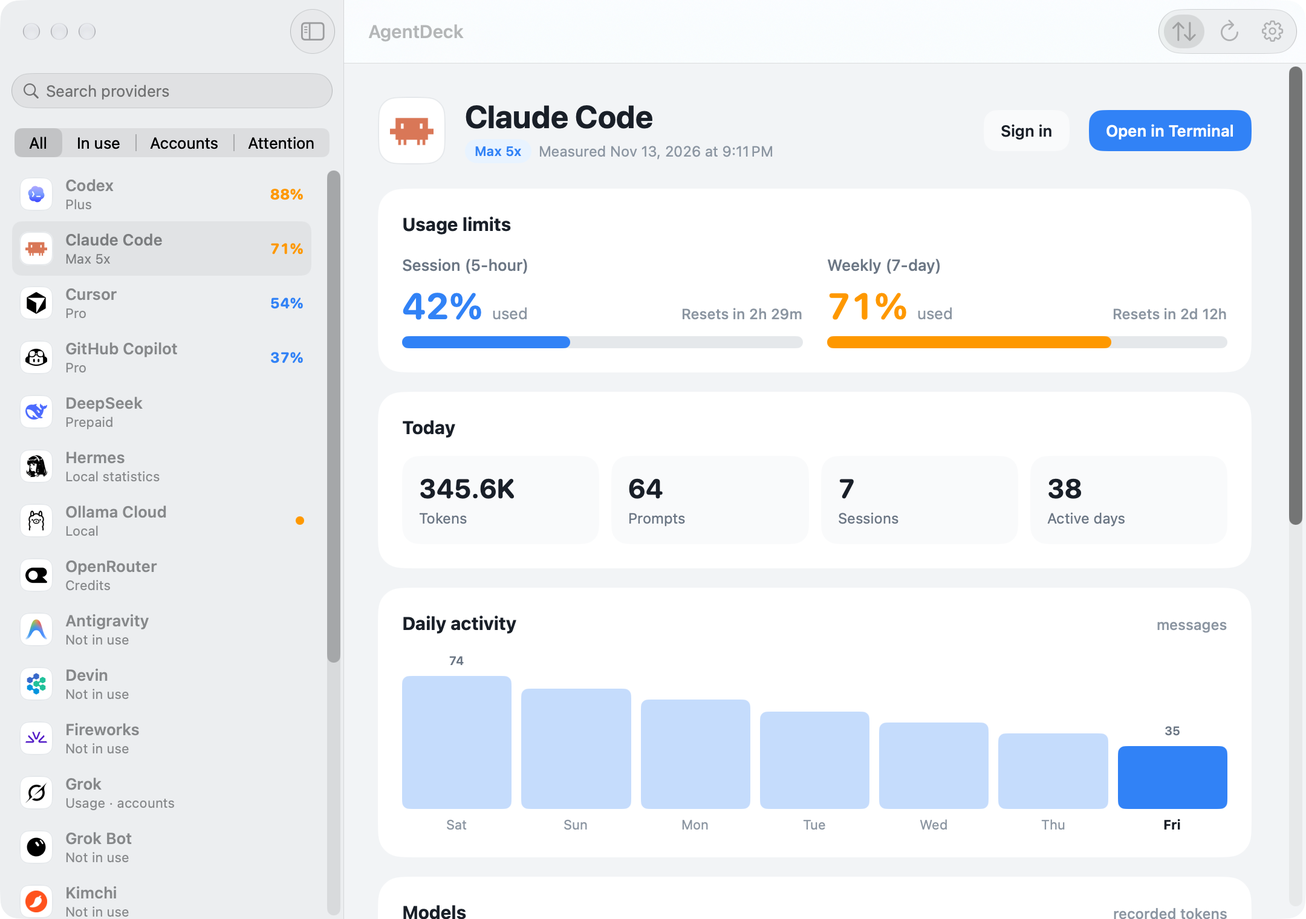
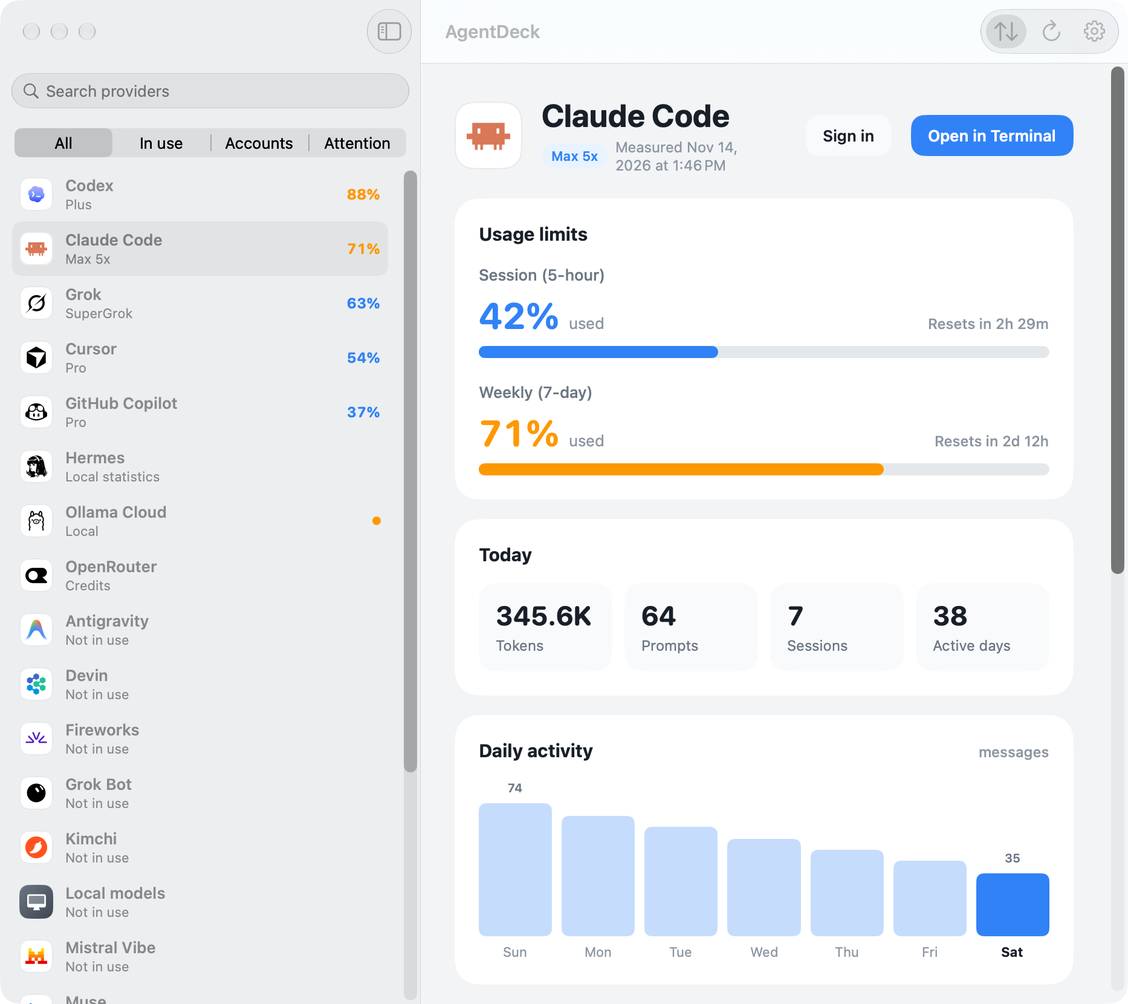
fix: refresh provider examples and unify display ordering

diff --git a/site/index.html b/site/index.html
@@ -94,10 +94,10 @@
   <section>
     <h2 data-i18n="h-shots">A closer look</h2>
     <div class="shots">
-      <figure><img src="images/panel-light.png" alt="Menu bar panel"><figcaption data-i18n="c1">Menu bar panel — highest usage first</figcaption></figure>
-      <figure><img src="images/accounts.png" alt="Accounts"><figcaption data-i18n="c2">Accounts and automatic switching</figcaption></figure>
-      <figure><img src="images/dashboard-dark.png" alt="Dashboard in dark mode"><figcaption data-i18n="c3">Dashboard, dark mode</figcaption></figure>
-      <figure><img src="images/balance.png" alt="Balance"><figcaption data-i18n="c4">Prepaid balances, estimates clearly marked</figcaption></figure>
+      <figure><img src="images/dashboard-light.png" alt="Claude Code"><figcaption data-i18n="c1">Claude Code usage</figcaption></figure>
+      <figure><img src="images/accounts.png" alt="Codex accounts"><figcaption data-i18n="c2">Codex accounts and automatic switching</figcaption></figure>
+      <figure><img src="images/grok.png" alt="Grok"><figcaption data-i18n="c3">Grok usage</figcaption></figure>
+      <figure><img src="images/balance.png" alt="OpenRouter balance"><figcaption data-i18n="c4">OpenRouter prepaid balance</figcaption></figure>
     </div>
   </section>
 
@@ -114,8 +114,8 @@
   <footer data-i18n="footer">MIT License · Not affiliated with any provider; product names and logos belong to their owners · <a href="https://github.com/jdk1021/agentdeck">Source on GitHub</a></footer>
 </div>
 <script>
-const providers = [["claude","Claude Code"],["codex","Codex"],["grok","Grok"],["cursor","Cursor"],["copilot","GitHub Copilot"],["agy","Antigravity"],["kimi","Kimi"],["deepseek","DeepSeek"],["openrouter","OpenRouter"],["fireworks","Fireworks"],["zai","Z.ai"],["minimax","MiniMax"],["qwen","Qwen Code"],["vibe","Mistral Vibe"],["ollama","Ollama Cloud"],["opencode","OpenCode"],["hermes","Hermes"],["devin","Devin"],["synthetic","Synthetic"],["kimchi","Kimchi"],["muse","Muse"],["grokbot","Grok Bot"]];
-document.getElementById("providers").innerHTML = providers.map(([id, name]) => `<span><img src="icons/${id}.png" alt="">${name}</span>`).join("") + `<span>+ Local models</span>`;
+const providers = [["claude","Claude Code"],["codex","Codex"],["grok","Grok"],["cursor","Cursor"],["copilot","GitHub Copilot"],["agy","Antigravity"],["openrouter","OpenRouter"],["fireworks","Fireworks"],["vibe","Mistral Vibe"],["ollama","Ollama Cloud"],["opencode","OpenCode"],["hermes","Hermes"],["devin","Devin"],["synthetic","Synthetic"],["kimchi","Kimchi"],["muse","Muse"],["grokbot","Grok Bot"],["local","Local models"],["deepseek","DeepSeek"],["kimi","Kimi"],["minimax","MiniMax"],["qwen","Qwen Code"],["zai","Z.ai"]];
+document.getElementById("providers").innerHTML = providers.map(([id, name]) => `<span>${id === "local" ? "" : `<img src="icons/${id}.png" alt="">`}${name}</span>`).join("");
 const ko = {
   credit: '<a href="https://github.com/omacom/omarchy">Omarchy</a>(MIT, David Heinemeier Hansson과 Omarchy 기여자들)의 에이전트 사용량 수집기를 바탕으로 만들었습니다. 깊이 감사드립니다.',
   title: "모든 AI 코딩 에이전트의 한도를<br>메뉴 막대 한곳에서.",
@@ -129,7 +129,7 @@ const ko = {
   f5t: "자체 완결형", f5: "수집기용 Python과 ripgrep이 앱 안에 들어 있어 따로 설치할 것이 없습니다.",
   f6t: "기본은 로컬 보관", f6: "사용량은 Mac 안에만 머뭅니다. 선택 기능인 기기 간 합계도 숫자만 내보내며 로그인이나 대화는 내보내지 않습니다.",
   "h-providers": "지원 제공자", "h-shots": "자세히 보기",
-  c1: "메뉴 막대 패널 — 사용량 높은 순", c2: "계정과 자동 전환", c3: "대시보드(다크 모드)", c4: "선불 잔액, 추정치는 명확히 표시",
+  c1: "Claude Code 사용량", c2: "Codex 계정과 자동 전환", c3: "Grok 사용량", c4: "OpenRouter 선불 잔액",
   "h-install": "설치",
   s1: '<b>또는</b> <a href="https://github.com/jdk1021/agentdeck/releases/latest">Releases</a>에서 DMG를 내려받아 AgentDeck을 응용 프로그램 폴더로 옮기세요.',
   s2: "<b>처음 실행:</b> ad-hoc 서명이며 공증되지 않은 앱입니다. 시스템 설정 → 개인정보 보호 및 보안에서 <b>그래도 열기</b>를 선택하세요.",

diff --git a/Sources/AgentDeckApp/DemoData.swift b/Sources/AgentDeckApp/DemoData.swift
@@ -53,6 +53,7 @@ enum DemoData {
         }
         let claudeLimits = [limit("Session (5-hour)", 0.42, 2.5), limit("Weekly (7-day)", 0.71, 61)]
         let codexLimits = [limit("5h window", 0.88, 1.2), limit("Weekly (7-day)", 0.64, 90)]
+        let grokLimits = [limit("Monthly credits", 0.63, 360)]
         let records: [JSONValue] = [
             record("claude", plan: "Max 5x", limits: claudeLimits, prompts: 64, models: ["model-large": 2_400_000, "model-fast": 610_000],
                    extra: ["accounts": .array([account("primary", "Max 5x", claudeLimits, active: true),
@@ -60,9 +61,11 @@ enum DemoData {
             record("codex", plan: "Plus", limits: codexLimits, prompts: 41, models: ["model-codex": 1_900_000],
                    extra: ["accounts": .array([account("primary", "Plus", codexLimits, active: true),
                                                account("demo-spare", "Plus", [limit("5h window", 0.05, 3), limit("Weekly (7-day)", 0.22, 70)], active: false)])]),
+            record("grok", plan: "SuperGrok", limits: grokLimits, prompts: 28, models: ["model-grok": 840_000],
+                   extra: ["accounts": .array([account("primary", "SuperGrok", grokLimits, active: true),
+                                               account("demo-team", "Team", [limit("Monthly credits", 0.18, 360)], active: false)])]),
             record("copilot", plan: "Pro", limits: [limit("Monthly allowance (est.)", 0.37, 400)], prompts: 12),
             record("cursor", plan: "Pro", limits: [limit("Included usage", 0.54, 300)], prompts: 18),
-            record("deepseek", plan: "Prepaid", balance: .object(["remaining": .number(18.42), "funded": .number(25), "spent": .number(6.58), "currency": .string("USD"), "estimated": .bool(true)]), prompts: 9),
             record("openrouter", plan: "Credits", balance: .object(["remaining": .number(42.10), "funded": .number(50), "spent": .number(7.90), "currency": .string("USD"), "estimated": .bool(false)]), prompts: 7),
             record("hermes", plan: "", prompts: 5),
             record("ollama", plan: "Local", prompts: 3, extra: ["limitsStale": .bool(true), "usageStatusText": .string("Showing previous data")]),
@@ -70,7 +73,7 @@ enum DemoData {
         for value in records {
             try store.write(value, to: store.paths.usage.appendingPathComponent(value["id"].string + ".json"), backup: false)
         }
-        for (provider, label, id) in [("claude", "Work (demo)", "demo-work"), ("codex", "Spare (demo)", "demo-spare")] {
+        for (provider, label, id) in [("claude", "Work (demo)", "demo-work"), ("codex", "Spare (demo)", "demo-spare"), ("grok", "Team (demo)", "demo-team")] {
             var registry = AccountRegistry()
             registry.accounts = [Account(id: "primary", label: "Personal (demo)", home: "/demo/primary", primary: true, pendingLogin: false),
                                  Account(id: id, label: label, home: "/demo/\(id)", pendingLogin: false)]

diff --git a/Sources/AgentDeckApp/Views.swift b/Sources/AgentDeckApp/Views.swift
@@ -29,7 +29,11 @@ struct MenuPanel: View {
         model.providers.filter { p in
             query.isEmpty ? model.record(p.id)?.ready == true
                 : p.name.localizedCaseInsensitiveContains(query) || p.id.contains(query.lowercased())
-        }.sorted { (model.record($0.id)?.peak ?? -1) > (model.record($1.id)?.peak ?? -1) }
+        }.sorted { lhs, rhs in
+            ProviderDisplayOrder.precedes(lhs.id, rhs.id) {
+                (model.record(lhs.id)?.peak ?? -1) > (model.record(rhs.id)?.peak ?? -1)
+            }
+        }
     }
     var body: some View {
         VStack(spacing: 10) {
@@ -184,13 +188,15 @@ struct Dashboard: View {
             default: passes = true
             }
             return matches && passes
-        }.sorted {
-            if sortByUsage {
-                let a = model.record($0.id), b = model.record($1.id)
-                if (a?.ready == true) != (b?.ready == true) { return a?.ready == true }
-                if (a?.peak ?? -1) != (b?.peak ?? -1) { return (a?.peak ?? -1) > (b?.peak ?? -1) }
+        }.sorted { lhs, rhs in
+            ProviderDisplayOrder.precedes(lhs.id, rhs.id) {
+                if sortByUsage {
+                    let a = model.record(lhs.id), b = model.record(rhs.id)
+                    if (a?.ready == true) != (b?.ready == true) { return a?.ready == true }
+                    if (a?.peak ?? -1) != (b?.peak ?? -1) { return (a?.peak ?? -1) > (b?.peak ?? -1) }
+                }
+                return lhs.name < rhs.name
             }
-            return $0.name < $1.name
         }
     }
     var body: some View {
@@ -599,7 +605,10 @@ struct ModelsCard: View {
             DeckCard {
                 VStack(alignment: .leading, spacing: 14) {
                     CardTitle(text: "Models", trailing: "recorded tokens")
-                    ForEach(models.keys.sorted { (totals[$0] ?? 0) > (totals[$1] ?? 0) }, id: \.self) { name in
+                    ForEach(models.keys.sorted { lhs, rhs in
+                        let left = ProviderDisplayOrder.isTrailingModel(lhs), right = ProviderDisplayOrder.isTrailingModel(rhs)
+                        return left == right ? (totals[lhs] ?? 0) > (totals[rhs] ?? 0) : !left
+                    }, id: \.self) { name in
                         let bucket = models[name] ?? .null
                         VStack(alignment: .leading, spacing: 6) {
                             HStack {
@@ -626,7 +635,7 @@ struct ModelsCard: View {
 
 struct SettingsPanel: View {
     @EnvironmentObject var model: DeckModel
-    @State private var keyProvider = "deepseek"
+    @State private var keyProvider = "grok"
     @State private var secret = ""
     @State private var loginAtLaunch = SMAppService.mainApp.status == .enabled
     @State private var message = ""

diff --git a/Tests/AgentDeckCoreTests/CoreTests.swift b/Tests/AgentDeckCoreTests/CoreTests.swift
@@ -28,6 +28,30 @@ final class CoreTests: XCTestCase {
         XCTAssertEqual(d?.action, .switched); XCTAssertEqual(d?.target, "b")
         XCTAssertNil(SwitchPolicy.decide(registry: registry(), record: try record(levels: ["a": 0.949, "b": 0.4]), now: now))
     }
+    func testProviderDisplayGroupsStayAheadOfUsageAndKeepAllProviders() throws {
+        let root = try temp()
+        let ids = ["deepseek", "claude", "kimi", "cursor", "minimax", "codex", "qwen", "grok", "zai"]
+        let data = try JSONSerialization.data(withJSONObject: ["collectors": ids.map { ["id": $0, "name": $0] }])
+        try data.write(to: root.appendingPathComponent("inventory.json"))
+        let providers = try Provider.load(from: root)
+        XCTAssertEqual(providers.count, ids.count)
+        XCTAssertEqual(Set(providers.map(\.id)), Set(ids))
+        XCTAssertEqual(Array(providers.prefix(4)).map(\.id), ["claude", "cursor", "codex", "grok"])
+        // A nearly exhausted trailing provider still comes after an idle preferred provider.
+        let levels = ["claude": 0.01, "grok": 0.2, "cursor": 0.3, "deepseek": 1.0, "qwen": 0.99]
+        let ordered = levels.keys.sorted { lhs, rhs in
+            ProviderDisplayOrder.precedes(lhs, rhs) { levels[lhs]! > levels[rhs]! }
+        }
+        XCTAssertEqual(ordered, ["cursor", "grok", "claude", "deepseek", "qwen"])
+        XCTAssertFalse(ProviderDisplayOrder.isTrailingProvider("cursor"))
+        XCTAssertFalse(ProviderDisplayOrder.isTrailingProvider("grok"))
+        for model in ["deepseek-v3", "openrouter/qwen/qwen3", "moonshotai/kimi-k2", "z-ai/glm-4.6", "MiniMax-M2"] {
+            XCTAssertTrue(ProviderDisplayOrder.isTrailingModel(model))
+        }
+        for model in ["grok-4", "claude-sonnet", "gpt-codex", "cursor-composer"] {
+            XCTAssertFalse(ProviderDisplayOrder.isTrailingModel(model))
+        }
+    }
     func testManualSuggestsInsteadOfSwitching() throws {
         XCTAssertEqual(SwitchPolicy.decide(registry: registry(mode: "manual"), record: try record(levels: ["a": 0.99, "b": 0.1]), now: now)?.action, .suggest)
     }

diff --git a/scripts/make-hero.swift b/scripts/make-hero.swift
@@ -35,10 +35,10 @@ var x: CGFloat = 230
 for item in ["File", "Edit", "View", "Window", "Help"] { (item as NSString).draw(at: NSPoint(x: x, y: H - barHeight + 15), withAttributes: regular); x += (item as NSString).size(withAttributes: regular).width + 44 }
 ("Fri 9:41 AM" as NSString).draw(at: NSPoint(x: W - 230, y: H - barHeight + 15), withAttributes: regular)
 // The AgentDeck status item, highlighted as if its panel is open.
-let itemRect = NSRect(x: W - 520, y: H - barHeight + 8, width: 150, height: barHeight - 16)
+let itemRect = NSRect(x: W - 520, y: H - barHeight + 8, width: 64, height: barHeight - 16)
 NSColor.black.withAlphaComponent(0.10).setFill(); NSBezierPath(roundedRect: itemRect, xRadius: 12, yRadius: 12).fill()
 let glyph = NSImage(size: NSSize(width: 36, height: 32), flipped: false) { r in
-    NSColor(white: 0.1, alpha: 1).setStroke(); NSColor(white: 0.1, alpha: 1).setFill()
+    NSColor.systemOrange.setStroke(); NSColor.systemOrange.setFill()
     let back = NSBezierPath(roundedRect: NSRect(x: 11, y: 13, width: 22, height: 16), xRadius: 4, yRadius: 4); back.lineWidth = 2.8; back.stroke()
     NSBezierPath(roundedRect: NSRect(x: 3, y: 3, width: 22, height: 18), xRadius: 4.4, yRadius: 4.4).fill()
     NSColor.white.setFill()
@@ -47,7 +47,6 @@ let glyph = NSImage(size: NSSize(width: 36, height: 32), flipped: false) { r in
     return true
 }
 glyph.draw(in: NSRect(x: itemRect.minX + 14, y: itemRect.minY + 8, width: 36, height: 32))
-("88%" as NSString).draw(at: NSPoint(x: itemRect.minX + 60, y: itemRect.minY + 7), withAttributes: textAttrs)
 
 func place(_ image: NSImage, _ rect: NSRect, radius: CGFloat) {
     ctx.saveGState()

diff --git a/Sources/AgentDeckCore/ProviderDisplayOrder.swift b/Sources/AgentDeckCore/ProviderDisplayOrder.swift
@@ -1,0 +1,24 @@
+import Foundation
+
+/// Shared provider display groups. This does not change collector support,
+/// account selection, or the provider that receives a request.
+public enum ProviderDisplayOrder {
+    public static let trailingProviderIDs: Set<String> = ["deepseek", "kimi", "minimax", "qwen", "zai"]
+
+    public static func isTrailingProvider(_ id: String) -> Bool {
+        trailingProviderIDs.contains(id)
+    }
+
+    /// Keep the group boundary ahead of usage, readiness, alphabetical, or other local sorting.
+    public static func precedes(_ lhs: String, _ rhs: String, otherwise: () -> Bool) -> Bool {
+        let left = isTrailingProvider(lhs), right = isTrailingProvider(rhs)
+        return left == right ? otherwise() : !left
+    }
+
+    public static func isTrailingModel(_ name: String) -> Bool {
+        let families = ["deepseek", "kimi", "moonshot", "minimax", "qwen", "glm", "zai", "z-ai", "zhipu"]
+        return name.lowercased().split(whereSeparator: { "/:".contains($0) }).contains { component in
+            families.contains { component.hasPrefix($0) }
+        }
+    }
+}

diff --git a/Sources/AgentDeckCore/Models.swift b/Sources/AgentDeckCore/Models.swift
@@ -133,6 +133,8 @@ public struct Provider: Identifiable, Codable, Sendable {
     }
     public static func load(from runtime: URL) throws -> [Provider] {
         struct Inventory: Decodable { let collectors: [Provider] }
-        return try JSONDecoder().decode(Inventory.self, from: Data(contentsOf: runtime.appendingPathComponent("inventory.json"))).collectors
+        let providers = try JSONDecoder().decode(Inventory.self, from: Data(contentsOf: runtime.appendingPathComponent("inventory.json"))).collectors
+        return providers.filter { !ProviderDisplayOrder.isTrailingProvider($0.id) }
+            + providers.filter { ProviderDisplayOrder.isTrailingProvider($0.id) }
     }
 }

diff --git a/Sources/AgentDeckCLI/main.swift b/Sources/AgentDeckCLI/main.swift
@@ -53,7 +53,9 @@ struct AgentDeckCLI {
         case "providers":
             for p in providers { print("\(p.id)\t\(p.name)\t\(p.supportsAccounts ? "usage + accounts" : "usage")") }
         case "status":
-            let records = try store.records().sorted { $0.name < $1.name }
+            let records = try store.records().sorted { lhs, rhs in
+                ProviderDisplayOrder.precedes(lhs.id, rhs.id) { lhs.name < rhs.name }
+            }
             if args.contains("--json") { try printJSON(records.map(\.raw)) }
             else {
                 for record in records {

diff --git a/Sources/AgentDeckCore/UsageSync.swift b/Sources/AgentDeckCore/UsageSync.swift
@@ -65,7 +65,9 @@ public struct UsageSync {
                 grouped[value["id"].string, default: []].append(.object(validated))
             }
         }
-        return grouped.keys.sorted().map { id in
+        return grouped.keys.sorted { lhs, rhs in
+            ProviderDisplayOrder.precedes(lhs, rhs) { lhs < rhs }
+        }.map { id in
             let rows = grouped[id]!
             var o: [String: JSONValue] = ["id": .string(id)]
             // Lifetime figures can include shared history; upstream takes the widest rather than summing it.

diff --git a/scripts/test-port.py b/scripts/test-port.py
@@ -1,10 +1,12 @@
 #!/usr/bin/env python3
 """Credential-free integration checks for the native CLI and macOS adaptation."""
 from pathlib import Path
+import ast
 import hashlib
 import importlib.util
 import json
 import os
+import re
 import shlex
 import shutil
 import subprocess
@@ -57,6 +59,47 @@ print(json.dumps({{'home':os.environ.get('CLAUDE_CONFIG_DIR'), 'secure':os.envir
         actual = {f.name.removeprefix('agentdeck-collect-') for f in (ROOT / 'Runtime/bin').iterdir()}
         self.assertEqual(expected, actual); self.assertEqual(len(actual), 23)
         self.assertIn('grok', expected)
+
+    def test_provider_and_status_lists_preserve_display_groups(self):
+        trailing = {'deepseek', 'kimi', 'minimax', 'qwen', 'zai'}
+        catalog = self.cli('providers').stdout.splitlines()
+        ids = [line.split('\t')[0] for line in catalog]
+        self.assertEqual(len(ids), 23)
+        self.assertEqual(set(ids[-len(trailing):]), trailing)
+        self.assertLess(ids.index('cursor'), len(ids) - len(trailing))
+        self.assertLess(ids.index('grok'), len(ids) - len(trailing))
+        usage = Path(self.env['AGENTDECK_HOME']) / 'usage'
+        usage.mkdir(parents=True, exist_ok=True)
+        for provider in ids:
+            (usage / f'{provider}.json').write_text(json.dumps({
+                'schemaVersion': 1, 'id': provider, 'name': provider, 'ready': True,
+                'limits': [{'label': 'Fixture', 'percent': 1 if provider in trailing else 0.01}]
+            }))
+        records = json.loads(self.cli('status', '--json').stdout)
+        self.assertEqual(len(records), 23)
+        self.assertEqual({r['id'] for r in records[-len(trailing):]}, trailing)
+        lines = self.cli('status').stdout.splitlines()
+        self.assertEqual({line.split('\t')[0] for line in lines[-len(trailing):]}, trailing)
+
+    def test_website_support_table_and_screenshot_examples_match_provider_policy(self):
+        trailing = {'deepseek', 'kimi', 'minimax', 'qwen', 'zai'}
+        expected = {line.split('\t')[0] for line in self.cli('providers').stdout.splitlines()}
+        website = (ROOT / 'site/index.html').read_text()
+        listed = json.loads(re.search(r'const providers = (\[.*\]);', website).group(1))
+        self.assertEqual({row[0] for row in listed}, expected)
+        self.assertEqual({row[0] for row in listed[-len(trailing):]}, trailing)
+        rows = re.findall(r'^\| .*? · `([^`]+)` \|', (ROOT / 'docs/support-matrix.md').read_text(), re.M)
+        self.assertEqual(set(rows), expected)
+        self.assertEqual(set(rows[-len(trailing):]), trailing)
+        figures = re.findall(r'<figure><img src="([^"]+)"', website)
+        self.assertEqual(figures[2], 'images/grok.png')
+        tree = ast.parse((ROOT / 'scripts/capture-screenshots.py').read_text())
+        shots = next(ast.literal_eval(node.value) for node in tree.body
+                     if isinstance(node, ast.Assign) and any(isinstance(t, ast.Name) and t.id == 'SHOTS' for t in node.targets))
+        selections = {name: args[args.index('--demo-select') + 1] for name, args, _ in shots if '--demo-select' in args}
+        self.assertEqual(selections['grok'], 'grok')
+        self.assertEqual(selections['balance'], 'openrouter')
+        self.assertNotIn('deepseek', selections.values())
 
     def test_existing_claude_settings_hooks_and_transcripts_preserved(self):
         primary = self.home / '.claude'; primary.mkdir()

diff --git a/scripts/capture-screenshots.py b/scripts/capture-screenshots.py
@@ -32,7 +32,8 @@ SHOTS = [
     ('dashboard-light', ['--demo-appearance', 'light'], 'AgentDeck'),
     ('dashboard-dark', ['--demo-appearance', 'dark'], 'AgentDeck'),
     ('accounts', ['--demo-appearance', 'light', '--demo-select', 'codex', '--demo-scroll', 'accounts'], 'AgentDeck'),
-    ('balance', ['--demo-appearance', 'light', '--demo-select', 'deepseek'], 'AgentDeck'),
+    ('grok', ['--demo-appearance', 'light', '--demo-select', 'grok'], 'AgentDeck'),
+    ('balance', ['--demo-appearance', 'light', '--demo-select', 'openrouter'], 'AgentDeck'),
     ('panel-light', ['--demo-appearance', 'light', '--panel-preview'], 'AgentDeck Panel'),
     ('panel-dark', ['--demo-appearance', 'dark', '--panel-preview'], 'AgentDeck Panel'),
     ('settings', ['--demo-appearance', 'light', '--demo-settings'], 'settings'),

diff --git a/docs/support-matrix.md b/docs/support-matrix.md
@@ -17,31 +17,31 @@ All rows implement the baseline collector, including its full shared routing rea
 | Codex · `codex` | The Codex app-server's `account/rateLimits/read`, every bucket (general windows plus any model's own), plus an individual spend cap and its reported reset time when present | native Codex CLI session files on the built-in `openai` provider, pi/omp sessions on `openai-codex`, and opencode sessions on the `openai` provider | CODEX_HOME auth.json or CLI file/keyring/auto; app-server account/rateLimits/read (no direct token export) | Yes / Yes / Yes | Implemented · F · L | Existing mise binary resolved once; L verified 2026-11-13 with Codex CLI 0.169.0 (its app-server writes its own log database in CODEX_HOME); own per-account SQLite; CLI owns file/keyring/auto storage. See account-isolation.md. [source](../Vendor/Upstream/bin/agentdeck-collect-codex) |
 | GitHub Copilot · `copilot` | Account-wide AI credit allowance (GitHub quota endpoint, or estimated locally) | the Copilot CLI session store's `assistant_usage_events`, with `~/.copilot/session-state` transcripts as fallback | Environment GitHub token; gh auth token; Copilot/gh config; quota API and ~/.copilot stores | No / No / No | Implemented · F | A locally derived allowance is labelled "(est.)" in every view; its budget lives in `~/Library/Application Support/AgentDeck/providers/copilot.json`. [source](../Vendor/Upstream/bin/agentdeck-collect-copilot) |
 | Cursor · `cursor` | Cursor's dashboard RPCs: the included total for the billing month, with the auto-model, named-model, and on-demand meters attached to it | the same dashboard RPCs, one call per day for the last week | CURSOR_AUTH_TOKEN; CURSOR_AUTH_PATH or ~/.config/cursor/auth.json; ~/Library/Application Support/Cursor/User/globalStorage/state.vscdb (read-only) | No / No / No | Implemented · F | Editor database uses macOS Application Support rather than Linux config path. [source](../Vendor/Upstream/bin/agentdeck-collect-cursor) |
-| DeepSeek · `deepseek` | Live prepaid balance from `GET https://api.deepseek.com/user/balance`, kept stale past a failed check, with the optional `fundedAmount` estimate for the funded-versus-spent line | pi/omp session files (profiles included) whose assistant messages ran on the deepseek provider, opencode sessions on a deepseek provider, DeepSeek Harness (`dsh`) session logs on its DeepSeek routes, and Claude Code turns sent to DeepSeek or answered by a `deepseek-*` model | DEEPSEEK_API_KEY; dsh managed credentials; pi/omp/OpenCode; user/balance API | No / No / No | Implemented · F | Same logic; a balance computed from configured funding is shown as "Balance · estimate" with "Configured funding" and "Rated spend". [source](../Vendor/Upstream/bin/agentdeck-collect-deepseek) |
 | Devin · `devin` | The daily and weekly quota (plus credit buckets on credit plans) from the GetUserStatus answer the Devin CLI caches in `$XDG_CACHE_HOME/devin/cli/user_status.*.bin`; no network call | the CLI's `$XDG_DATA_HOME/devin/cli/sessions.db` (per-message metrics and `prompt_history`), plus pi/omp and opencode sessions on the `devin` provider | Devin credentials.toml; XDG cache user_status.*.bin (cached CLI protobuf); sessions.db read-only | No / No / No | Implemented · F | Same parsing/routing/probing logic; app-private cache and provider configuration paths. [source](../Vendor/Upstream/bin/agentdeck-collect-devin) |
 | Fireworks · `fireworks` | Prepaid balance: the live ledger when the key can read it, else configured funding minus rated account costs; kept stale past a failed check | Fireworks billing API, grouped by day and model for the last 30 days, cached per key and account | FIREWORKS_API_KEY / ~/.fireworks/auth.ini / pi/OpenCode keys; configured account; billing and ledger API | No / No / No | Implemented · F | Same logic; a balance computed from configured funding is shown as "Balance · estimate" with "Configured funding" and "Rated spend". [source](../Vendor/Upstream/bin/agentdeck-collect-fireworks) |
 | Grok · `grok` | The credits endpoint behind Grok's `/usage` view (the billing period's included usage), plus the monthly included quota of a unified-billing account | Each session's `usage.json` (the ledger `grok usage` prints: tokens by model per finished turn, one turn per typed prompt, a fork's copied turns counted once), plus `summary.json` for sessions | GROK_HOME/auth.json and plan; CLI billing endpoint | Yes / Yes / Yes | Implemented · F | Same parsing/routing/probing logic; app-private cache and provider configuration paths. [source](../Vendor/Upstream/bin/agentdeck-collect-grok) |
 | Grok Bot · `grokbot` | Grok Bot's weekly included usage from Cursor's `GetSandUsageStatus` RPC, asked as the Cursor sign-in | none; limit only | The same Cursor sign-in, weekly dashboard RPC | No / No / No | Implemented · F | Same parsing/routing/probing logic; app-private cache and provider configuration paths. [source](../Vendor/Upstream/bin/agentdeck-collect-grokbot) |
 | Hermes · `hermes` | None (Hermes has no subscription of its own) | `state.db` in Hermes' home and in each named profile under its root's `profiles/`, read-only, scanned once per refresh window: the sessions Nous Portal billed, and those from before Hermes kept the route | No own quota authentication; HERMES_HOME/state.db and named profiles, read-only | No / No / No | Implemented · F | Same parsing/routing/probing logic; app-private cache and provider configuration paths. [source](../Vendor/Upstream/bin/agentdeck-collect-hermes) |
 | Kimchi · `kimchi` | The plan, prepaid credits, and any spend budgets from the gateway's `/v1/credits` and `/v1/budget`, the endpoints Kimchi's own status line reads | Kimchi's pi session files under `~/.config/kimchi/harness/sessions` (`KIMCHI_CODING_AGENT_DIR`): tokens by model per assistant reply on Kimchi's own `kimchi` and `kimchi-dev` routes; a session `--provider openrouter` is OpenRouter's, and one on a custom provider counts nowhere. Also pi/omp sessions and opencode replies on those provider ids, and Claude Code turns and Codex rollouts sent to Kimchi's gateway (`llm.kimchi.dev`, `llm.eu.kimchi.dev`), as `kimchi claudecode` and `kimchi codex` set them up | KIMCHI_API_KEY or ~/.config/kimchi/config.json; credits/budget gateway | No / No / No | Implemented · F | Same parsing/routing/probing logic; app-private cache and provider configuration paths. [source](../Vendor/Upstream/bin/agentdeck-collect-kimchi) |
-| Kimi · `kimi` | Kimi Code quotas (5-hour session, weekly, and monthly allowances) | Kimi Code's per-agent `wire.jsonl` session logs under its home on Kimi's routes, pi, omp, and opencode sessions on the Kimi Code plan (`kimi-coding`, `kimi-code`, `kimi-code-plan-global`, `kimi-code-plan-cn`) or Moonshot's API (`moonshotai`, `moonshotai-cn`, `moonshot`), plus Claude Code turns sent to Kimi's or Moonshot's API or answered by a `kimi-*` or `moonshot*` model | KIMI_API_KEY; ~/.kimi-code/credentials/kimi-code.json, legacy ~/.kimi/credentials; pi/omp/OpenCode credentials | No / No / No | Implemented · F | Same parsing/routing/probing logic; app-private cache and provider configuration paths. [source](../Vendor/Upstream/bin/agentdeck-collect-kimi) |
-| Local models · `local` | None (self-hosted work has no meter) | Codex rollouts, pi/omp sessions and opencode messages on a local runtime, a provider named in `local.json`, or a Codex provider whose `base_url` is on the LAN, never a provider id another collector counts, plus Claude Code turns while `ANTHROPIC_BASE_URL` is self-hosted (not Claude models or cloud-tagged ones), and Kimi Code, Qwen Code, Hermes and Mistral Vibe requests sent to a self-hosted base URL | No credential; configured provider IDs and self-hosted endpoint classifier; local records only | No / No / No | Implemented · F | Same parsing/routing/probing logic; app-private cache and provider configuration paths. [source](../Vendor/Upstream/bin/agentdeck-collect-local) |
-| MiniMax · `minimax` | MiniMax Token Plan API (5-hour session + 7-day weekly) | MiniMax Code's session files under `~/.minimax/v2/sessions`, plus pi, omp, and opencode sessions on a MiniMax provider, and Claude Code turns sent to MiniMax or answered by a `MiniMax-*` model | MINIMAX_API_KEY, mmx configuration, pi/omp/OpenCode keys; Token Plan API | No / No / No | Implemented · F | Same parsing/routing/probing logic; app-private cache and provider configuration paths. [source](../Vendor/Upstream/bin/agentdeck-collect-minimax) |
+| Local models · `local` | None (self-hosted work has no meter) | Codex rollouts, pi/omp sessions and opencode messages on a local runtime, a provider named in `local.json`, or a Codex provider whose `base_url` is on the LAN, never a provider id another collector counts, plus Claude Code turns while `ANTHROPIC_BASE_URL` is self-hosted (not Claude models or cloud-tagged ones), and Hermes, Mistral Vibe, Kimi Code and Qwen Code requests sent to a self-hosted base URL | No credential; configured provider IDs and self-hosted endpoint classifier; local records only | No / No / No | Implemented · F | Same parsing/routing/probing logic; app-private cache and provider configuration paths. [source](../Vendor/Upstream/bin/agentdeck-collect-local) |
 | Muse · `muse` | The client's key endpoint (session + weekly percents), else local metering only — never estimated | native `muse` CLI session files, with prompt and session counts from its `session-index.db`, plus pi/omp and opencode sessions on the `meta` provider and omp's `muse-code` | MUSE_AUTH_PATH or ~/.config/muse/auth.json; client key endpoint and ~/.local/share/muse records | No / No / No | Implemented · F | Same parsing/routing/probing logic; app-private cache and provider configuration paths. [source](../Vendor/Upstream/bin/agentdeck-collect-muse) |
 | Ollama Cloud · `ollama` | Ollama Cloud's balance endpoint (5-hour session + 7-day weekly on a legacy plan, or the monthly included credits), plus any purchased credits left as a balance | pi, omp, and opencode sessions on the `ollama-cloud` provider, plus cloud-tagged models reached through the local daemon's `ollama` provider (Codex `--oss` rollouts included), Codex rollouts on a `model_providers` entry at ollama.com, and Claude Code turns sent to ollama.com or answered by a cloud-tagged model | OLLAMA_API_KEY, provider config, pi/omp; ollama.com balance and me endpoints | No / No / No | Implemented · F | Same parsing/routing/probing logic; app-private cache and provider configuration paths. [source](../Vendor/Upstream/bin/agentdeck-collect-ollama) |
 | OpenCode · `opencode` | OpenCode Go's usage endpoint (rolling + weekly + monthly), with an API key or the Console session; a key without a Go plan shows local usage alone | pi and omp sessions (profiles included) on the Zen and Go providers, plus opencode's own `message` and `session_message` stores | ~/.local/share/opencode/auth.json, Console session, pi/omp profiles; Zen/Go; Go usage endpoints | No / No / No | Implemented · F | Same parsing/routing/probing logic; app-private cache and provider configuration paths. [source](../Vendor/Upstream/bin/agentdeck-collect-opencode) |
-| OpenRouter · `openrouter` | Prepaid balance from `/credits`, key-limit meter from `/key`, each kept stale past a failed check | opencode and pi/omp sessions on the OpenRouter provider, Kimchi sessions run with `--provider openrouter`, DeepSeek Harness's `openrouter` route, MiniMax Code custom providers at openrouter.ai, and Claude Code turns sent to OpenRouter, with or without a key, or the `/activity` billing API with a management key | OPENROUTER_API_KEY and optional OPENROUTER_MANAGEMENT_KEY; pi/omp/OpenCode; credits/key/activity API | No / No / No | Implemented · F | Same parsing/routing/probing logic; app-private cache and provider configuration paths. [source](../Vendor/Upstream/bin/agentdeck-collect-openrouter) |
-| Qwen Code · `qwen` | None (neither Qwen Code nor Alibaba publishes a way to read a Coding Plan or Token Plan quota) | Session transcripts under `~/.qwen/projects/*/chats` (`QWEN_HOME`, `QWEN_RUNTIME_DIR`, `advanced.runtimeOutputDir`): billed API responses on Alibaba's routes and typed prompts, plus pi, omp, and opencode sessions on Alibaba's Coding Plan, Token Plan, and Qwen OAuth providers | No quota endpoint; QWEN_HOME / QWEN_RUNTIME_DIR / settings runtime output; Alibaba routes | No / No / No | Implemented · F | Same parsing/routing/probing logic; app-private cache and provider configuration paths. [source](../Vendor/Upstream/bin/agentdeck-collect-qwen) |
-| Synthetic · `synthetic` | Synthetic's `GET /v2/quotas`: rolling five-hour requests, weekly credits, hourly search, free tool calls | pi/omp sessions and opencode messages on the `synthetic` provider; Claude Code, MiniMax Code and Codex sent to `api.synthetic.new`, and Claude Code replies by `hf:`/`syn:` models with no override | SYNTHETIC_API_KEY or saved pi/omp/OpenCode keys; /v2/quotas | No / No / No | Implemented · F | Same parsing/routing/probing logic; app-private cache and provider configuration paths. [source](../Vendor/Upstream/bin/agentdeck-collect-synthetic) |
+| OpenRouter · `openrouter` | Prepaid balance from `/credits`, key-limit meter from `/key`, each kept stale past a failed check | opencode and pi/omp sessions on the OpenRouter provider, Kimchi sessions run with `--provider openrouter`, Claude Code turns sent to OpenRouter, with or without a key, or the `/activity` billing API with a management key, plus DeepSeek Harness's `openrouter` route and MiniMax Code custom providers at openrouter.ai | OPENROUTER_API_KEY and optional OPENROUTER_MANAGEMENT_KEY; pi/omp/OpenCode; credits/key/activity API | No / No / No | Implemented · F | Same parsing/routing/probing logic; app-private cache and provider configuration paths. [source](../Vendor/Upstream/bin/agentdeck-collect-openrouter) |
+| Synthetic · `synthetic` | Synthetic's `GET /v2/quotas`: rolling five-hour requests, weekly credits, hourly search, free tool calls | pi/omp sessions and opencode messages on the `synthetic` provider; Claude Code, Codex and MiniMax Code sent to `api.synthetic.new`, and Claude Code replies by `hf:`/`syn:` models with no override | SYNTHETIC_API_KEY or saved pi/omp/OpenCode keys; /v2/quotas | No / No / No | Implemented · F | Same parsing/routing/probing logic; app-private cache and provider configuration paths. [source](../Vendor/Upstream/bin/agentdeck-collect-synthetic) |
 | Mistral Vibe · `vibe` | None (Mistral publishes no usage limits) | Vibe's Unified Harness store under `~/.vibe/logs/session/unified` and older releases' per-session `meta.json` under `~/.vibe/logs/session` (`VIBE_HOME`), only sessions on a Mistral-served model, plus pi/omp and opencode sessions on the `mistral` provider | No quota endpoint; VIBE_HOME session stores and Mistral routes | No / No / No | Implemented · F | Same parsing/routing/probing logic; app-private cache and provider configuration paths. [source](../Vendor/Upstream/bin/agentdeck-collect-vibe) |
+| DeepSeek · `deepseek` | Live prepaid balance from `GET https://api.deepseek.com/user/balance`, kept stale past a failed check, with the optional `fundedAmount` estimate for the funded-versus-spent line | pi/omp session files (profiles included) whose assistant messages ran on the deepseek provider, opencode sessions on a deepseek provider, DeepSeek Harness (`dsh`) session logs on its DeepSeek routes, and Claude Code turns sent to DeepSeek or answered by a `deepseek-*` model | DEEPSEEK_API_KEY; dsh managed credentials; pi/omp/OpenCode; user/balance API | No / No / No | Implemented · F | Same logic; a balance computed from configured funding is shown as "Balance · estimate" with "Configured funding" and "Rated spend". [source](../Vendor/Upstream/bin/agentdeck-collect-deepseek) |
+| Kimi · `kimi` | Kimi Code quotas (5-hour session, weekly, and monthly allowances) | Kimi Code's per-agent `wire.jsonl` session logs under its home on Kimi's routes, pi, omp, and opencode sessions on the Kimi Code plan (`kimi-coding`, `kimi-code`, `kimi-code-plan-global`, `kimi-code-plan-cn`) or Moonshot's API (`moonshotai`, `moonshotai-cn`, `moonshot`), plus Claude Code turns sent to Kimi's or Moonshot's API or answered by a `kimi-*` or `moonshot*` model | KIMI_API_KEY; ~/.kimi-code/credentials/kimi-code.json, legacy ~/.kimi/credentials; pi/omp/OpenCode credentials | No / No / No | Implemented · F | Same parsing/routing/probing logic; app-private cache and provider configuration paths. [source](../Vendor/Upstream/bin/agentdeck-collect-kimi) |
+| MiniMax · `minimax` | MiniMax Token Plan API (5-hour session + 7-day weekly) | MiniMax Code's session files under `~/.minimax/v2/sessions`, plus pi, omp, and opencode sessions on a MiniMax provider, and Claude Code turns sent to MiniMax or answered by a `MiniMax-*` model | MINIMAX_API_KEY, mmx configuration, pi/omp/OpenCode keys; Token Plan API | No / No / No | Implemented · F | Same parsing/routing/probing logic; app-private cache and provider configuration paths. [source](../Vendor/Upstream/bin/agentdeck-collect-minimax) |
+| Qwen Code · `qwen` | None (neither Qwen Code nor Alibaba publishes a way to read a Coding Plan or Token Plan quota) | Session transcripts under `~/.qwen/projects/*/chats` (`QWEN_HOME`, `QWEN_RUNTIME_DIR`, `advanced.runtimeOutputDir`): billed API responses on Alibaba's routes and typed prompts, plus pi, omp, and opencode sessions on Alibaba's Coding Plan, Token Plan, and Qwen OAuth providers | No quota endpoint; QWEN_HOME / QWEN_RUNTIME_DIR / settings runtime output; Alibaba routes | No / No / No | Implemented · F | Same parsing/routing/probing logic; app-private cache and provider configuration paths. [source](../Vendor/Upstream/bin/agentdeck-collect-qwen) |
 | Z.ai · `zai` | Z.ai's coding-plan monitor endpoint (5-hour session + 7-day weekly), for keys that carry a GLM Coding Plan | pi, omp, and opencode sessions on Z.ai's and Zhipu's providers (`zai`, `zhipu`, pi's `zai-coding-cn`, omp's `zhipu-coding-plan`, opencode's `zhipuai`, `zai-coding-plan` and `zhipuai-coding-plan`; `glm-*` models), plus Claude Code turns sent to Z.ai or answered by a `glm-*` model | ZAI_API_KEY / ZHIPU_API_KEY / saved pi/omp/OpenCode keys; coding-plan monitor endpoint | No / No / No | Implemented · F | Same parsing/routing/probing logic; app-private cache and provider configuration paths. [source](../Vendor/Upstream/bin/agentdeck-collect-zai) |
 
 ## Shared acceptance rules
 
 - `Runtime/bin/agentdeck-collect-*` must exactly equal the inventory: 23 IDs, no omitted/new unknown collector. `scripts/audit.py` enforces equality.
-- Shared billing classification includes pi and omp profiles, both generations of OpenCode stores, Claude Code custom endpoints, Codex provider/base-URL routes, MiniMax Code, DeepSeek Harness, Kimchi, Qwen, Hermes and Vibe. Forks, repeated message IDs, compactions, nested roots and caches preserve the baseline partition rules.
+- Shared billing classification includes pi and omp profiles, both generations of OpenCode stores, Claude Code custom endpoints, Codex provider/base-URL routes, Kimchi, Hermes and Vibe, followed by MiniMax Code, DeepSeek Harness and Qwen. Forks, repeated message IDs, compactions, nested roots and caches preserve the baseline partition rules.
 - OpenCode Zen usage and OpenCode Go quotas are distinct. No Go plan means local usage alone. Cloud-tagged Ollama models bill Ollama Cloud; self-hosted models bill `local`.
 - A failed or stale probe never becomes zero usage. Reset windows follow upstream semantics; automatic selection requires fresh successful observations for the account.
 - API-key/unsupported plans never get invented subscription limits. Cursor/Grok Bot use private dashboard RPCs; Claude, Google and several billing adapters also depend on service-specific endpoints. Changes can require adapter updates.
-- The original Copilot local fallback is an estimate, not an authoritative quota. The UI explicitly exposes the source text/estimate warning. DeepSeek funded-versus-spent and Fireworks configured funding are also labeled by the baseline record rather than represented as live ledger data.
+- The original Copilot local fallback is an estimate, not an authoritative quota. The UI explicitly exposes the source text/estimate warning. Fireworks configured funding and DeepSeek funded-versus-spent are also labeled by the baseline record rather than represented as live ledger data.
 - Actual provider login requires the provider CLI or a user-supplied key. AgentDeck never silently installs an agent CLI.
